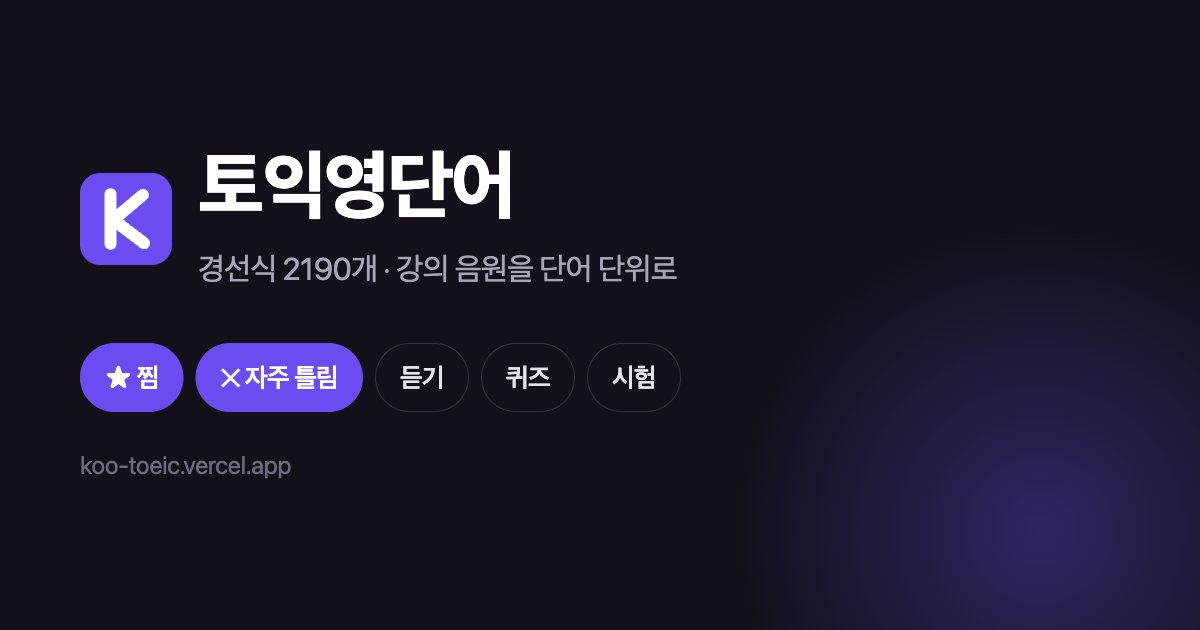
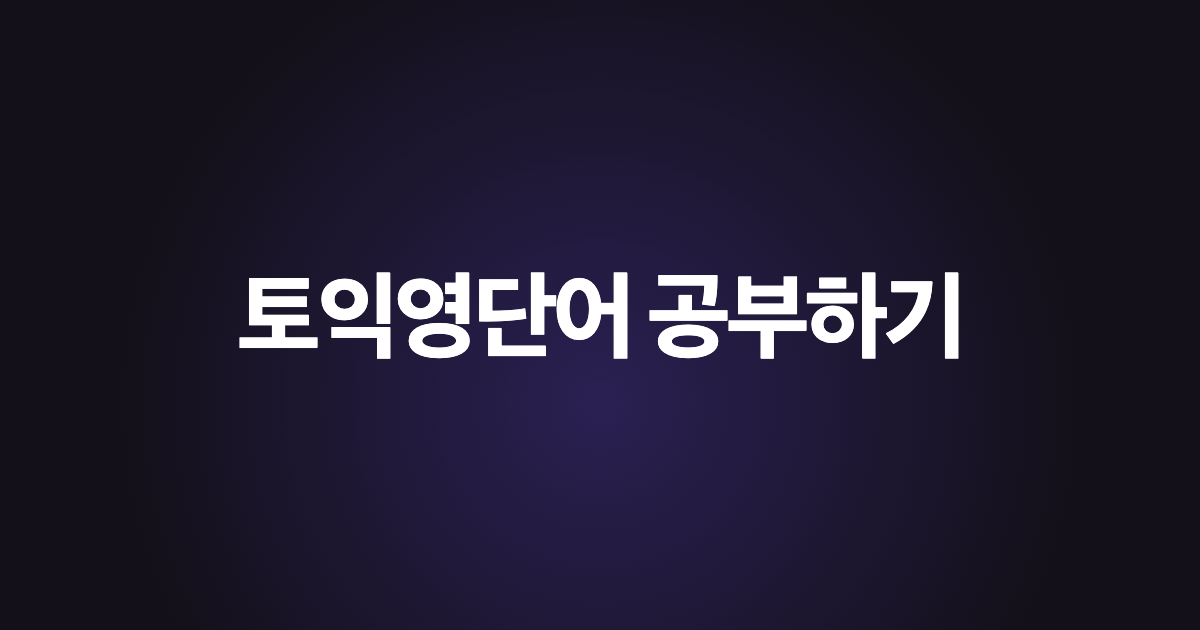
og 카드를 타이틀만 남기고 정리
마크·기능 칩·URL 을 다 넣었더니 작게 뜨는 미리보기 카드에서 아무것도 안 읽혔다.
'토익영단어 공부하기' 한 줄만 남긴다. 배경에는 보라 광원만 은은하게 — 완전 단색이면
화면이 꺼진 것처럼 보인다.

og:title 도 카드와 같은 문구로 맞췄다.

파일이 184KB -> 408KB 로 늘었다. 그라데이션은 PNG 가 잘 못 줄인다.
크롤러 한도(카카오 5MB)에 한참 못 미쳐서 그대로 둔다.

diff --git a/index.html b/index.html
@@ -10,8 +10,8 @@
      카카오톡을 비롯한 크롤러 대부분이 SVG 를 렌더하지 않는다. 그래서 파비콘과 달리 PNG 파일이다 -->
 <meta property="og:type" content="website">
 <meta property="og:url" content="https://koo-toeic.vercel.app/">
-<meta property="og:title" content="토익영단어">
-<meta property="og:description" content="경선식 토익영단어 2190개를 강의 음원과 함께. 찜한 단어와 자주 틀리는 단어만 골라 듣는다.">
+<meta property="og:title" content="토익영단어 공부하기">
+<meta property="og:description" content="경선식 토익영단어 2190개를 강의 음원과 함께.">
 <meta property="og:image" content="https://koo-toeic.vercel.app/og.png">
 <meta property="og:image:width" content="1200">
 <meta property="og:image:height" content="630">
